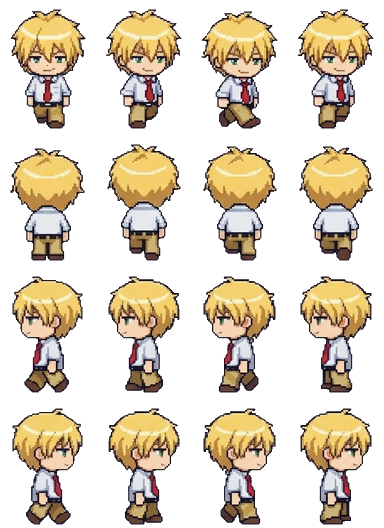
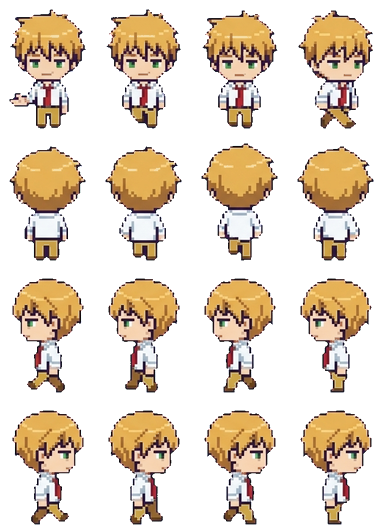
Redraw Usui Takumi in the shared art style
Claude-Session: https://claude.ai/code/session_01KaPsBYLrtbRfMYNG2xeBCK

diff --git a/docs/app.js b/docs/app.js
@@ -75,7 +75,7 @@ function spr(cat, k, col, sc) {
   return `<div class="clip" style="width:${it[2] * sc}px;height:${it[3] * sc}px;POS"><img class="px" src="assets/decor/${cat}.png" alt="" style="width:${S.sw * sc}px;height:${S.sh * sc}px;margin-left:${-col * S.cw * sc}px;margin-top:${-i * S.ch * sc}px"></div>`;
 }
 const icon = (k, sz) => `<span class="itm" style="width:${sz}px;height:${sz}px"><img class="px" src="assets/ui/items.png" alt="" style="width:${IT.length * sz}px;height:${sz}px;margin-left:${-ITM[k].i * sz}px"></span>`;
-const face = (id, w) => { const s = w / 96; return `<img class="px" src="assets/ch/${id}.webp?v=53" alt="" style="position:absolute;width:${384 * s}px;height:${528 * s}px;left:${-(96 * s - w) / 2}px;top:0;max-width:none">`; };
+const face = (id, w) => { const s = w / 96; return `<img class="px" src="assets/ch/${id}.webp?v=54" alt="" style="position:absolute;width:${384 * s}px;height:${528 * s}px;left:${-(96 * s - w) / 2}px;top:0;max-width:none">`; };
 
 // ---------- 저장 ----------
 let fb = null, user = null, S = null, saveT = null;
@@ -143,7 +143,7 @@ function sleepHTML(id, r, dy) {
   const pos = r.a && r.a[0] === 'bed' ? 'left:3%;bottom:20%' : r.b && r.b[0] === 'bed' ? 'right:3%;bottom:20%' : 'left:calc(50% - 44px);bottom:6%';
   const s = 36 / 96;
   return `<div style="position:absolute;width:88px;height:56px;${pos};z-index:${dy ? 4 : 5};${dy ? `transform:translate(12px,${dy}px)` : ''}"><div style="position:absolute;inset:0;filter:brightness(.22)">
-    <div style="position:absolute;left:11px;top:1px;width:36px;height:50px;overflow:hidden;transform:rotate(-90deg)"><img class="px" src="assets/ch/${id}.webp?v=53" alt="" style="width:${384 * s}px;height:${528 * s}px;max-width:none;margin-top:${-132 * s}px"></div>
+    <div style="position:absolute;left:11px;top:1px;width:36px;height:50px;overflow:hidden;transform:rotate(-90deg)"><img class="px" src="assets/ch/${id}.webp?v=54" alt="" style="width:${384 * s}px;height:${528 * s}px;max-width:none;margin-top:${-132 * s}px"></div>
     <div style="position:absolute;left:19px;top:19px;width:67px;height:29px;border:2px solid var(--ink);border-radius:8px 6px 4px 4px;background:#8ccff5;background-image:repeating-linear-gradient(90deg,transparent 0 10px,rgba(255,255,255,.5) 10px 13px)"></div></div>
     ${dy ? '' : '<span class="emo" style="left:8px;top:-22px;color:#5b6bd6">Z z z</span>'}</div>`;
 }
@@ -153,8 +153,8 @@ function roomHTML(id, o, scale) {
     <div class="floor" style="background-color:${PAL[r.fc][1]};background-image:${tileUrl('floor', r.fl)}"></div>
     ${slot('deco', r.dc, 'left:6%;top:6%')}${slot('furn', r.a, 'left:3%;bottom:20%')}${slot('furn', r.b, 'right:3%;bottom:20%')}${slot('prop', r.pr, 'left:28%;bottom:4%;z-index:2')}
     ${id && o.sleeping && g ? sleepHTML(g, r, -16) : ''}${id && o.sleeping ? sleepHTML(id, r) : ''}${id && o.job ? `<div style="position:absolute;left:50%;top:38%;transform:translateX(-50%);z-index:5;background:#fff;border:3px solid var(--ink);border-radius:10px;padding:6px 10px;font-size:11px;text-align:center;line-height:1.5"><img src="assets/ui/ic_job.png" alt="" style="width:18px;vertical-align:-4px"> ${WORK[id] ? WORK[id][1] : esc(JOB_NAME[id]) + ' 알바 중'}${g ? `<br><small>${esc(nameOf(g))}도 같이</small>` : ''}<br><b id="jobleft">${timeLeft(o.job.until)}</b></div>` : ''}
-    ${id ? `<div class="shadow" id="shd" ${o.sleeping || o.job ? 'style="display:none"' : ''}></div><div class="man" id="man" ${o.sleeping || o.job ? 'style="display:none"' : ''}><img class="px" src="assets/ch/${id}.webp?v=53" alt="${esc(nameOf(id))}"></div><span class="emo" id="emo" hidden></span><span class="mumble" id="mum" hidden></span>` : ''}
-    ${g ? `<div class="shadow" id="gshd" ${hideG}></div><div class="man" id="gman" ${hideG}><img class="px" src="assets/ch/${g}.webp?v=53" alt="${esc(nameOf(g))}"></div><span class="emo" id="gemo" hidden></span><span class="mumble gmum" id="gmum" hidden></span>` : ''}
+    ${id ? `<div class="shadow" id="shd" ${o.sleeping || o.job ? 'style="display:none"' : ''}></div><div class="man" id="man" ${o.sleeping || o.job ? 'style="display:none"' : ''}><img class="px" src="assets/ch/${id}.webp?v=54" alt="${esc(nameOf(id))}"></div><span class="emo" id="emo" hidden></span><span class="mumble" id="mum" hidden></span>` : ''}
+    ${g ? `<div class="shadow" id="gshd" ${hideG}></div><div class="man" id="gman" ${hideG}><img class="px" src="assets/ch/${g}.webp?v=54" alt="${esc(nameOf(g))}"></div><span class="emo" id="gemo" hidden></span><span class="mumble gmum" id="gmum" hidden></span>` : ''}
     ${o.sleeping ? `<div class="night"></div><div class="sleepleft">쿨쿨 · 일어나기까지 <b id="sleepleft">${timeLeft(wakeAt(o)).replace(' 남음', '')}</b></div>` : ''}
   </div>`;
 }
@@ -167,7 +167,7 @@ function meterHTML(o) {
 const ic = (act, img, label, pressed) => `<button class="ic" data-act="${act}" ${pressed ? 'aria-pressed="true"' : ''}><img src="assets/ui/ic_${img}.png?v=2" alt="">${label}</button>`;
 
 let dropStyle = null; const cheat = {};
-const APP_V = 125, COUPONS = { NINOGUYA: 3000 };
+const APP_V = 126, COUPONS = { NINOGUYA: 3000 };
 // 쿠폰 입력 정리: 한글 자판 상태로 친 글자(ㅜㅑㅜㅐ혀ㅛㅁ)도 영어 자판 글자로 바꾸고, 대소문자·띄어쓰기·마침표는 무시해요
 const KEY = { ㄱ: 'r', ㄲ: 'R', ㄴ: 's', ㄷ: 'e', ㄸ: 'E', ㄹ: 'f', ㅁ: 'a', ㅂ: 'q', ㅃ: 'Q', ㅅ: 't', ㅆ: 'T', ㅇ: 'd', ㅈ: 'w', ㅉ: 'W', ㅊ: 'c', ㅋ: 'z', ㅌ: 'x', ㅍ: 'v', ㅎ: 'g',
   ㅏ: 'k', ㅐ: 'o', ㅑ: 'i', ㅒ: 'O', ㅓ: 'j', ㅔ: 'p', ㅕ: 'u', ㅖ: 'P', ㅗ: 'h', ㅘ: 'hk', ㅙ: 'ho', ㅚ: 'hl', ㅛ: 'y', ㅜ: 'n', ㅝ: 'nj', ㅞ: 'np', ㅟ: 'nl', ㅠ: 'b', ㅡ: 'm', ㅢ: 'ml', ㅣ: 'l',
@@ -407,7 +407,7 @@ function startTrip(k) {
   if (tg) lines[1] = `${nameOf(tg)}: ${withHim(sub(pick(GLX(tg).trip), o, c.n), tg)}`;
   const n = (FR[id] || [4, 4, 4, 4])[3], el = document.createElement('div'); el.className = 'tripview';
   el.innerHTML = `<div class="tsay"> </div><div class="tstage" style="background-image:url(assets/travel/${k}.png?v=2)"><div class="tplace">${esc(c.n)}</div>
-    <div class="twalker"><img class="px" src="assets/ch/${id}.webp?v=53" alt=""></div>${tg ? `<div class="twalker tgirl"><img class="px" src="assets/ch/${tg}.webp?v=53" alt=""></div>` : ''}<span class="emo tjoy">♪</span></div>
+    <div class="twalker"><img class="px" src="assets/ch/${id}.webp?v=54" alt=""></div>${tg ? `<div class="twalker tgirl"><img class="px" src="assets/ch/${tg}.webp?v=54" alt=""></div>` : ''}<span class="emo tjoy">♪</span></div>
     <div class="tbar"><i></i></div><button class="btn white tskip" data-tskip="1">바로 돌아오기</button>`;
   document.body.appendChild(el);
   const gimg = el.querySelector('.tgirl img'), gn = tg ? (FR[tg] || [4, 4, 4, 4])[3] : 1;
@@ -636,7 +636,7 @@ setInterval(() => { if (S && user) { tickTime(); save(); } }, 60000);
     if (nv > APP_V && !location.search.includes('u=' + nv)) { location.replace(location.pathname + '?u=' + nv); return; }
   } catch { }
   app.innerHTML = '<div class="start"><div class="egg"><div class="scr"></div></div><div class="note">불러오는 중....</div></div>';
-  const [c, t, f, it, mu, ct, tv, gl, sts] = await Promise.all(['data/chars.json', 'data/talk.json', 'data/frames.json', 'data/items.json', 'data/mumble.json', 'data/countries.json', 'data/travel.json', 'data/girls.json', 'data/sets.json'].map(u => fetch(u + '?v=125').then(r => r.ok ? r.json() : {})));
+  const [c, t, f, it, mu, ct, tv, gl, sts] = await Promise.all(['data/chars.json', 'data/talk.json', 'data/frames.json', 'data/items.json', 'data/mumble.json', 'data/countries.json', 'data/travel.json', 'data/girls.json', 'data/sets.json'].map(u => fetch(u + '?v=126').then(r => r.ok ? r.json() : {})));
   CH = c; CHM = Object.fromEntries(c.map(x => [x.id, x])); TALK = t; FR = f; IT = it; ITM = Object.fromEntries(it.map(x => [x.k, x])); MUM = mu; CTRY = ct; TRV = tv; GL = Array.isArray(gl) ? gl : []; SETS = Array.isArray(sts) ? sts : []; GLM = Object.fromEntries(GL.map(x => [x.id, x]));
   try { await initFirebase(); } catch (e) { console.warn('Firebase 연결 실패, 기기 저장으로', e); fb = null; }
   if (fb) {

diff --git a/docs/index.html b/docs/index.html
@@ -18,6 +18,6 @@
 <main id="app" aria-live="polite"></main>
 <div id="toast" role="status" hidden></div>
 <script src="firebase-config.js?v=3"></script>
-<script type="module" src="app.js?v=125"></script>
+<script type="module" src="app.js?v=126"></script>
 </body>
 </html>
